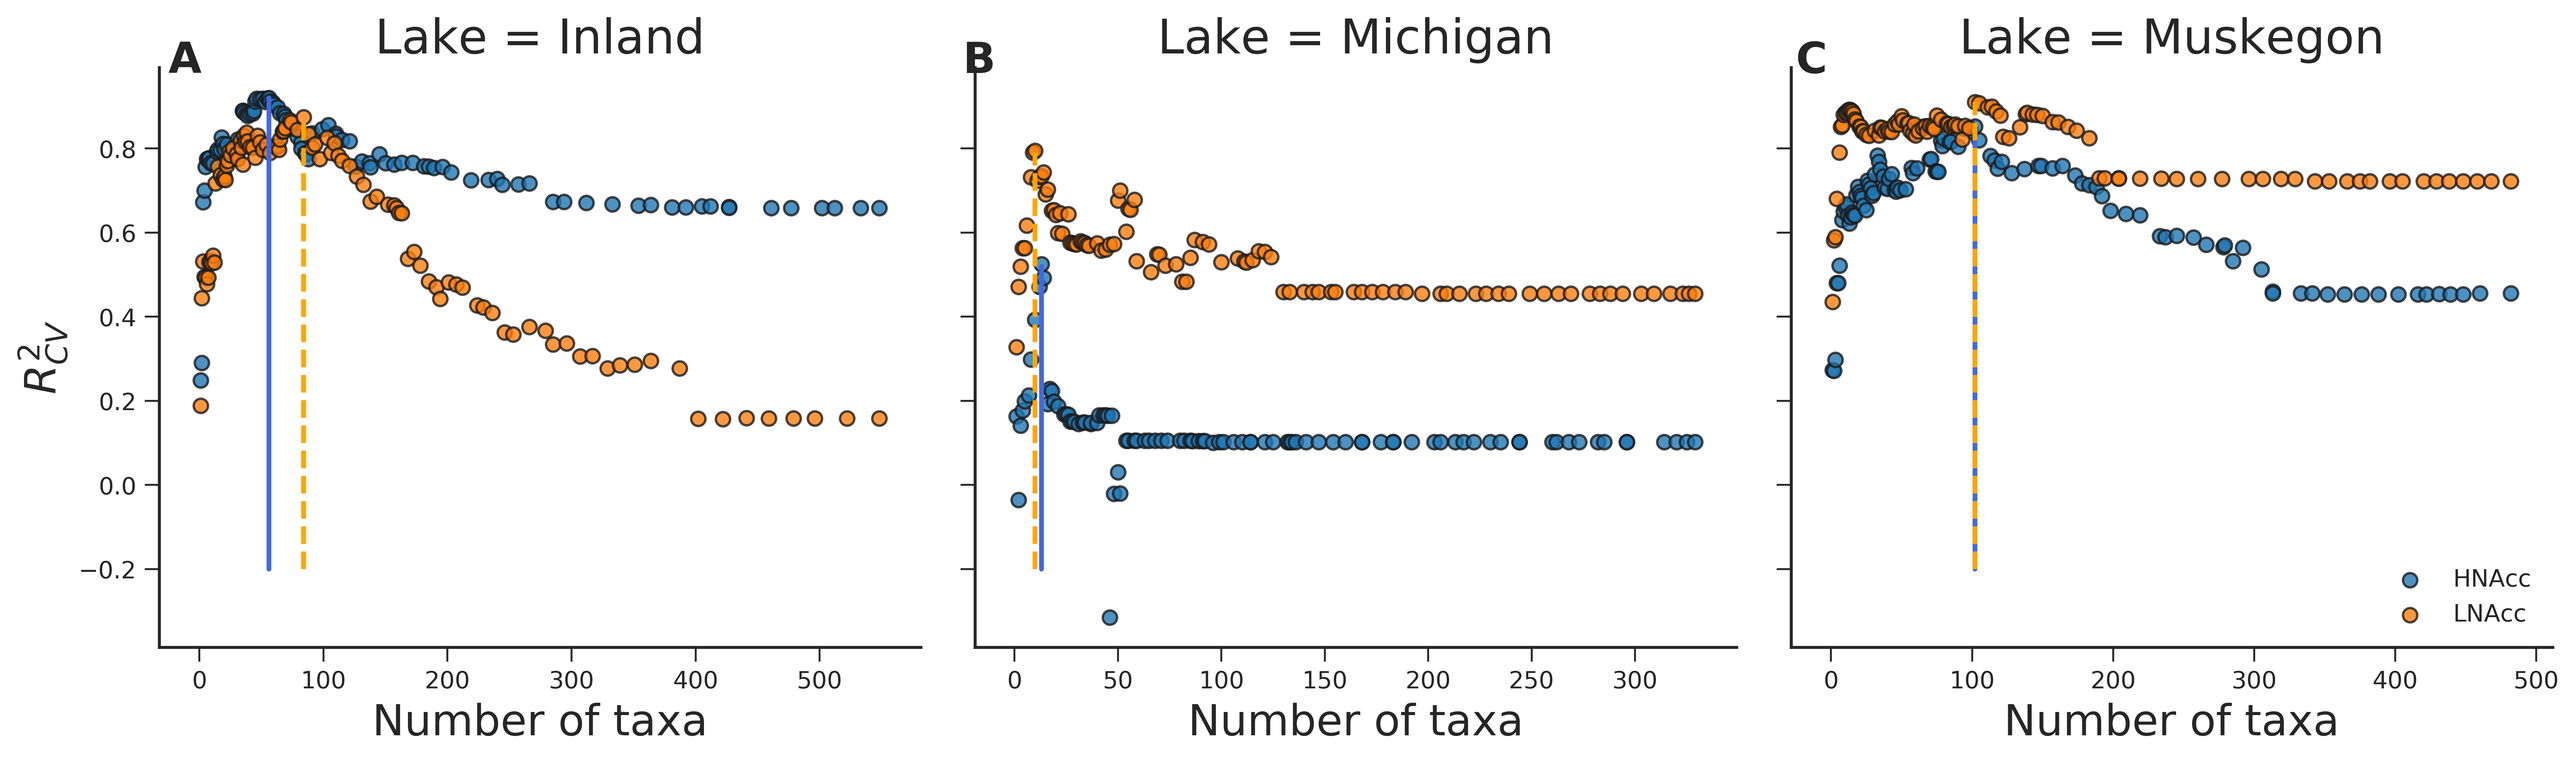
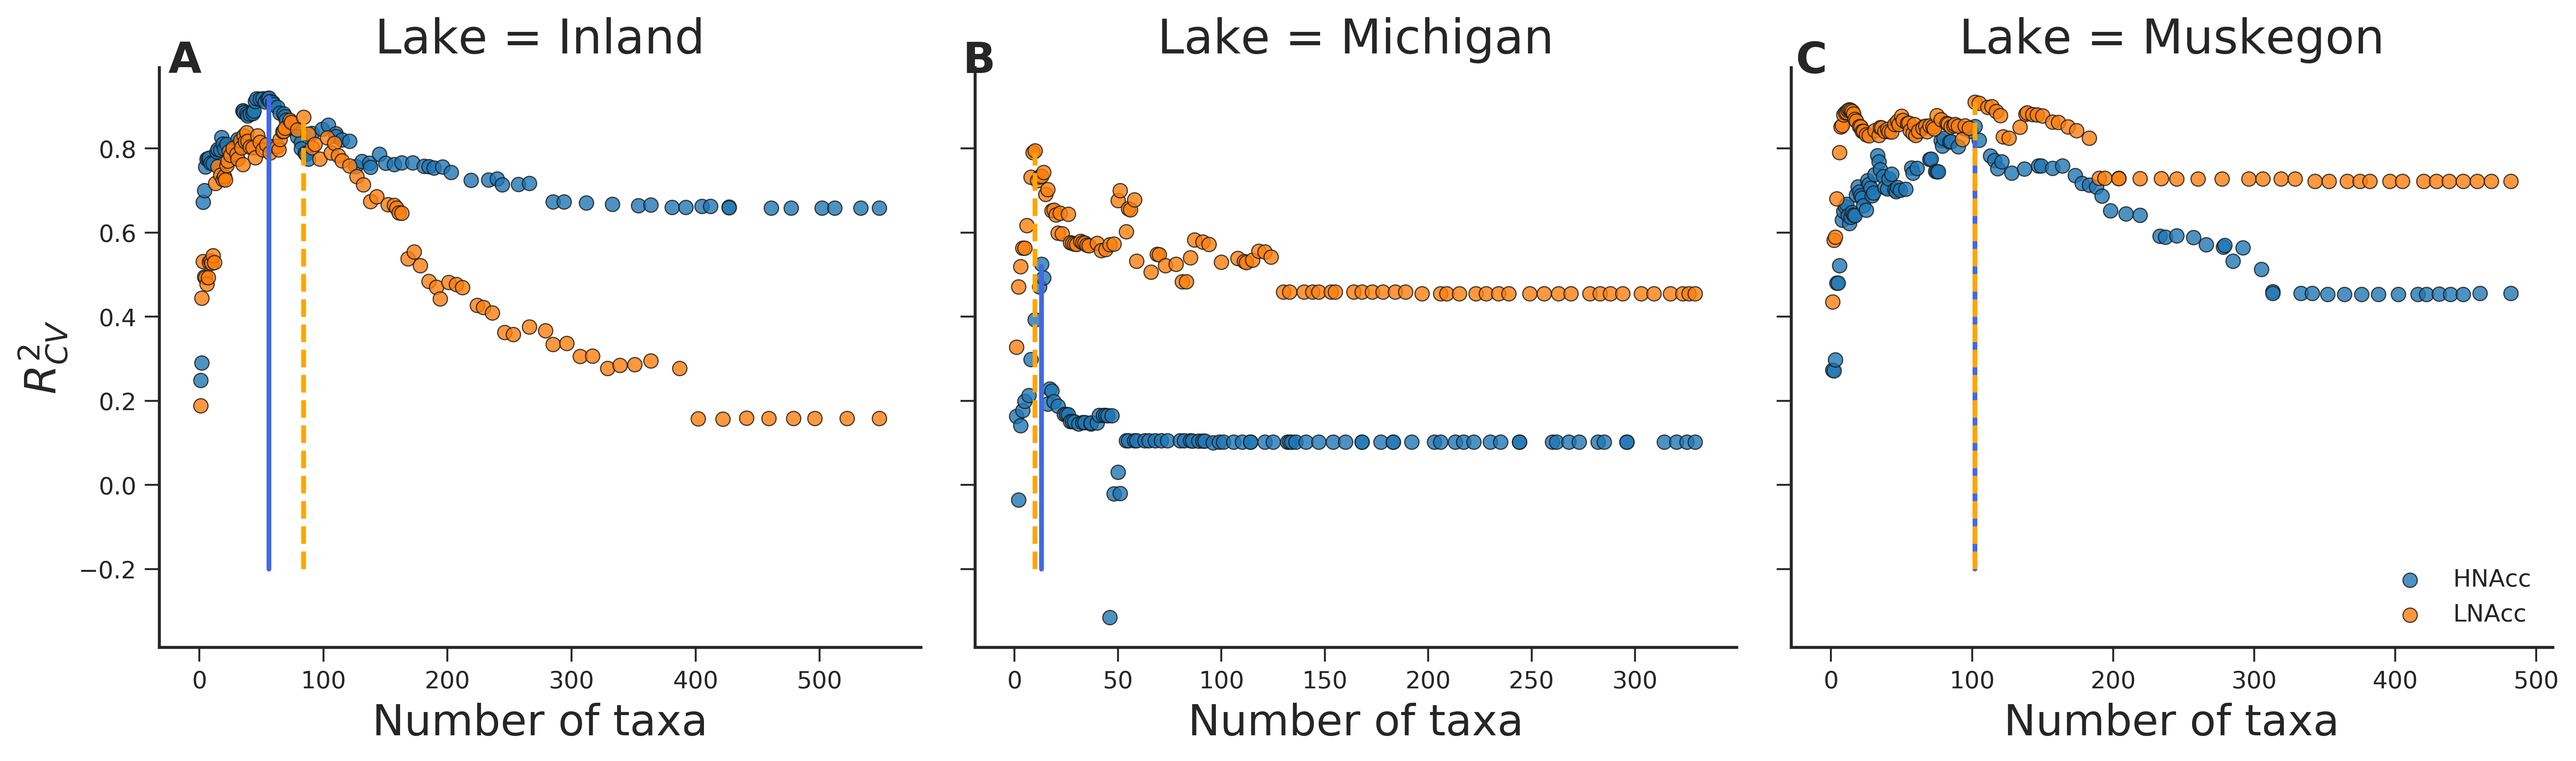
Adjusted Figs little bit

diff --git a/plot_Fig3.py b/plot_Fig3.py
@@ -85,7 +85,7 @@ def calc_otus_ranking(fs_rank,mfe,fs_header,mfe_header):
 def plot_R2CV_HNA_RL_TAX(df): 
     df.loc[:,'Number of taxa'] = df.loc[:,'Number of taxa'].astype(int)
     df = pd.melt(df,id_vars=['Number of taxa','Taxonomic rank','Target'], value_vars=['R2_CV'], var_name='Functional group', value_name='R2')
-    g = sns.lmplot(x='Number of taxa',y='R2',data=df, hue='Target', col='Taxonomic rank', col_wrap=4, fit_reg=False, sharey=True, sharex=False, legend=False, scatter_kws=dict(edgecolor="k", linewidth=1))
+    g = sns.lmplot(x='Number of taxa',y='R2',data=df, hue='Target', col='Taxonomic rank', col_wrap=4, fit_reg=False, sharey=True, sharex=False, legend=False, scatter_kws=dict(edgecolor="k", linewidth=0.5))
     plt.subplots_adjust(top=0.9)
     g.set_xlabels(fontsize=20)
     g.set_ylabels(fontsize=20)

diff --git a/plot_Fig2.py b/plot_Fig2.py
@@ -79,7 +79,7 @@ def calc_otus_ranking(fs_rank,mfe,fs_header,mfe_header):
 def plot_R2CV_Lake(df): 
     df.loc[:,'Number of taxa'] = df.loc[:,'Number of taxa'].astype(int)
     df = pd.melt(df,id_vars=['Number of taxa','Lake','Target'], value_vars=['R2_CV'], var_name='Functional group', value_name='R2')
-    g = sns.lmplot(x='Number of taxa',y='R2',data=df, hue='Target', col='Lake', fit_reg=False, sharex=False, legend=False, scatter_kws=dict(edgecolor="k", linewidth=1))
+    g = sns.lmplot(x='Number of taxa',y='R2',data=df, hue='Target', col='Lake', fit_reg=False, sharex=False, legend=False, scatter_kws=dict(edgecolor="k", linewidth=0.5))
     col_order = ['A','B','C']
     for ax, title in zip(g.axes.flat, col_order):
         ax.text(-25.0, 0.98, title, fontsize=18, weight='bold')
